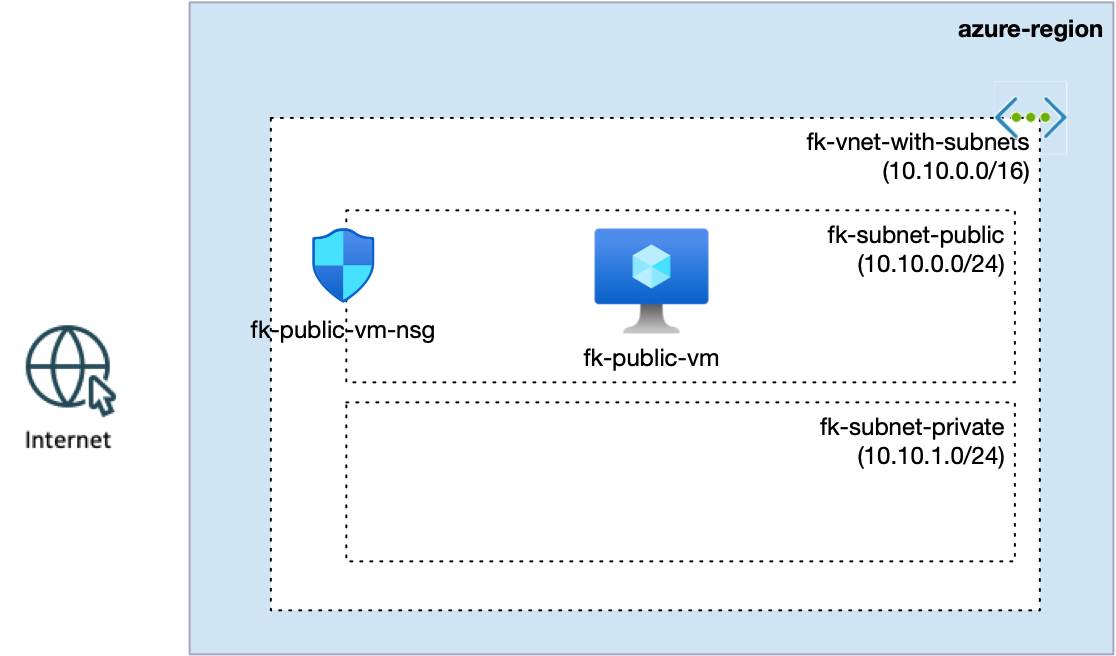
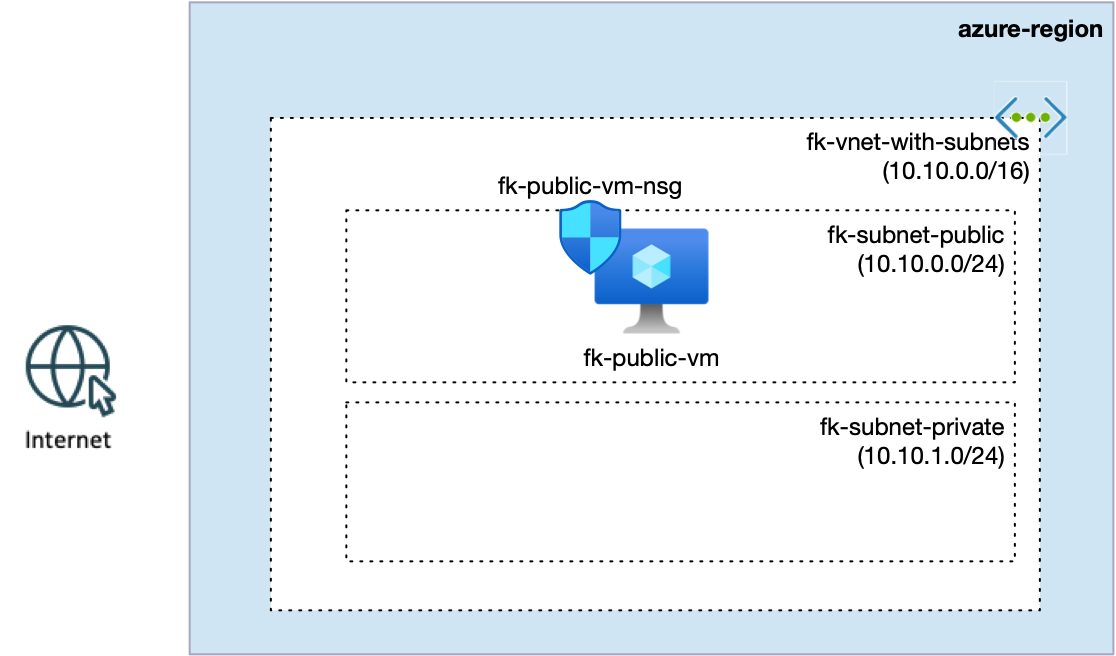
Fixes for 02

Changed region(s): [[0.4265, 0.2744, 0.6093, 0.4268], [0.2742, 0.3354, 0.3351, 0.4573], [0.2133, 0.4878, 0.3961, 0.5183]]

diff --git a/examples/02_single_vm_with_nsg/README.md b/examples/02_single_vm_with_nsg/README.md
@@ -21,7 +21,7 @@ This example creates:
 - A single Linux Virtual Machine
 - A dedicated Network Interface (NIC)
 - A dedicated Network Security Group (NSG)
-- An NSG association (applied to the subnet or directly to the NIC — depending on the implementation)
+- An NSG association (applied directly to the NIC)
 - An OS disk attached to the VM
 - No Load Balancer
 - No autoscaling
@@ -67,8 +67,8 @@ tofu destroy
 
 This example demonstrates:
 
-- How to attach an **NSG to a subnet** (`azurerm_subnet_network_security_group_association`)
-- How to implement a minimal inbound policy for a VM subnet
+- How to attach an **NSG to a NIC** (`azurerm_network_interface_security_group_association`)
+- How to implement a minimal inbound policy for a VM instance
 - A clean foundation for the next steps:
   - Load Balancer frontends
   - VM Scale Sets (autoscaling)
